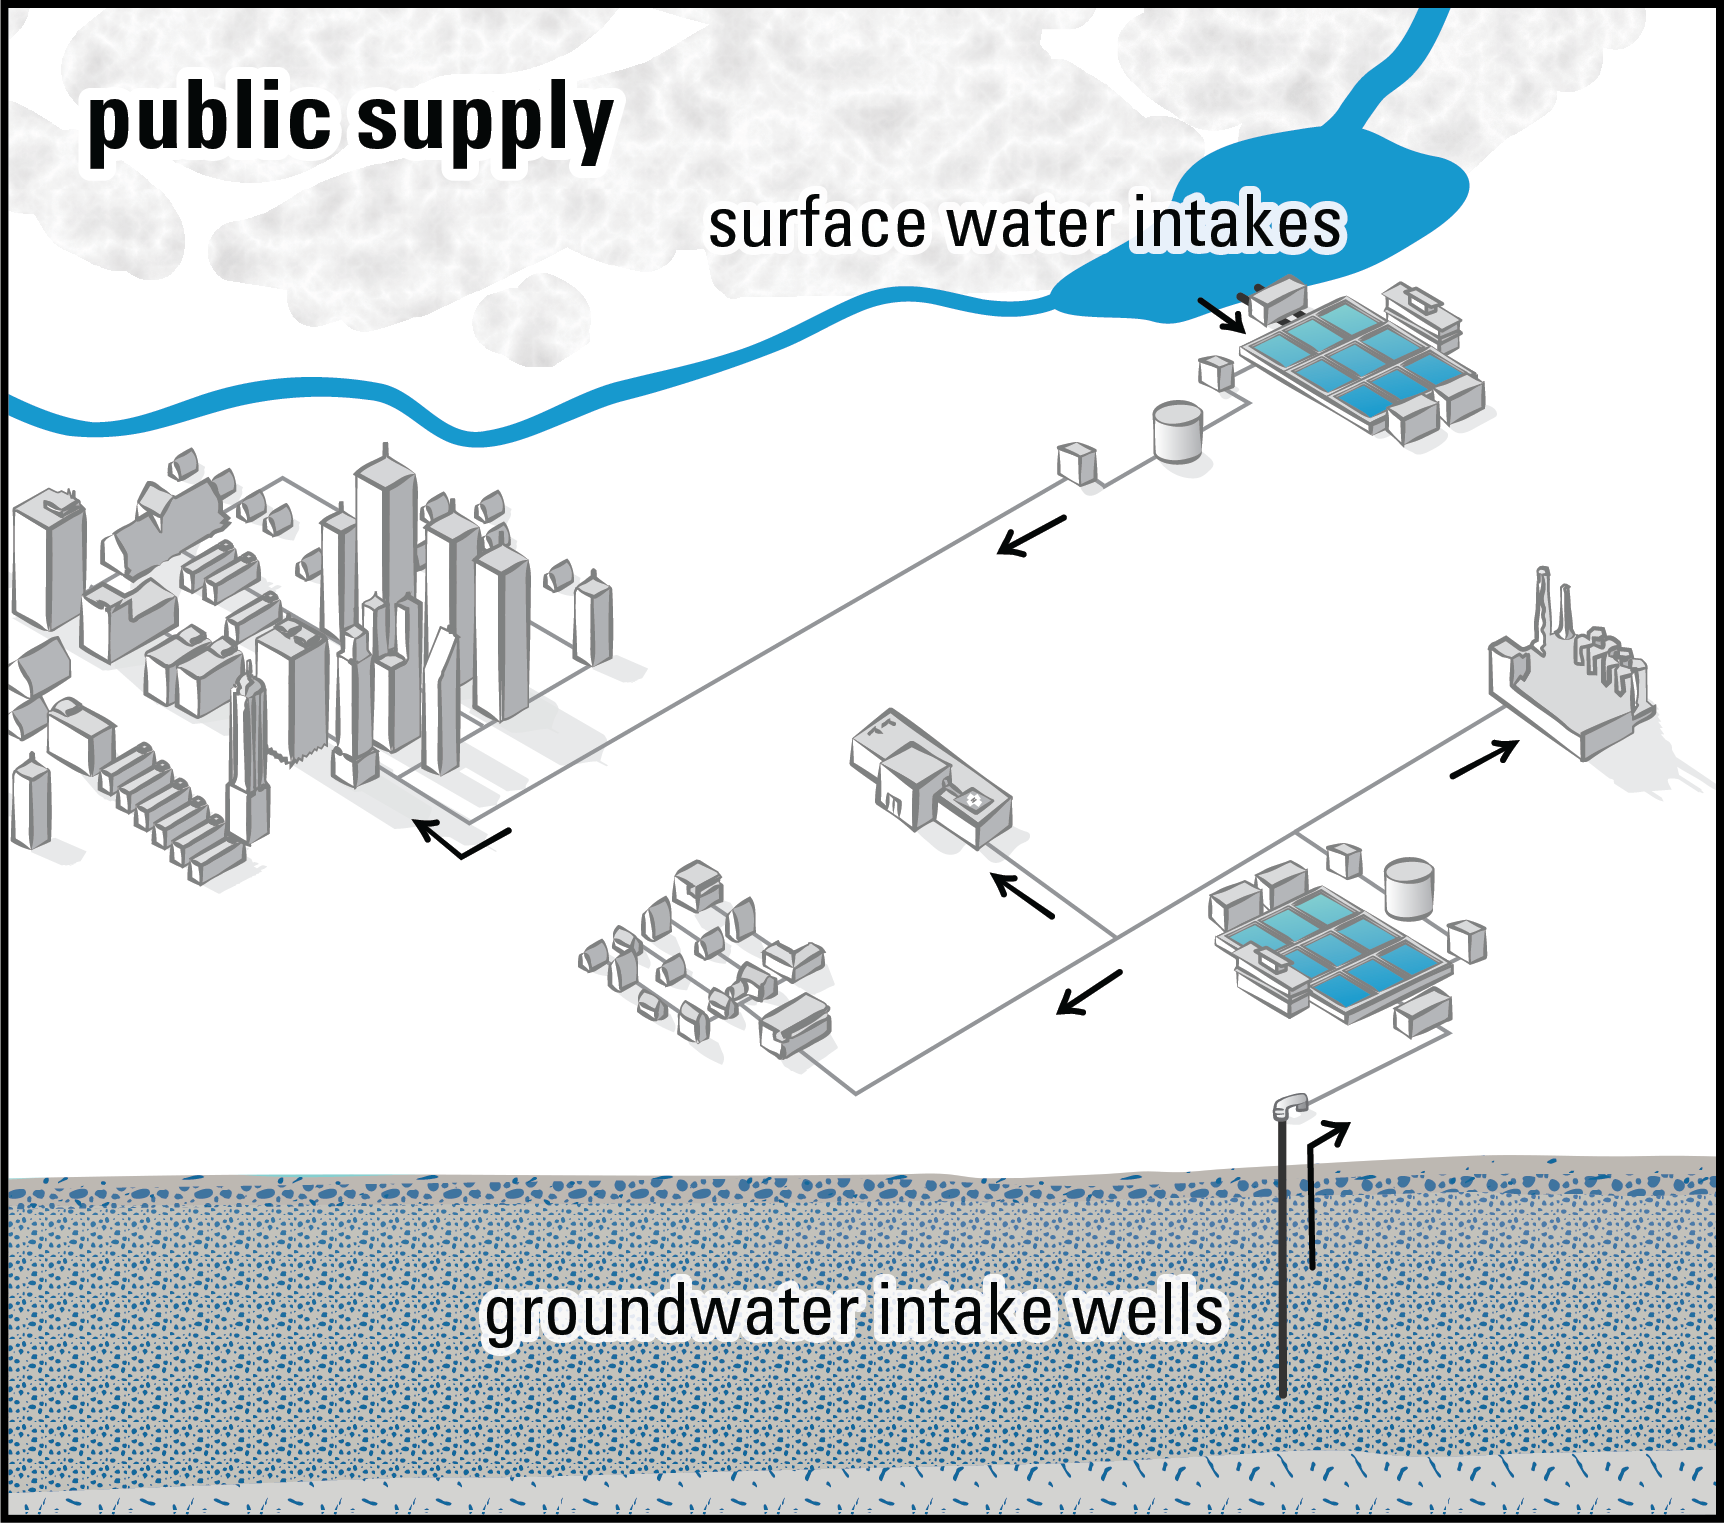
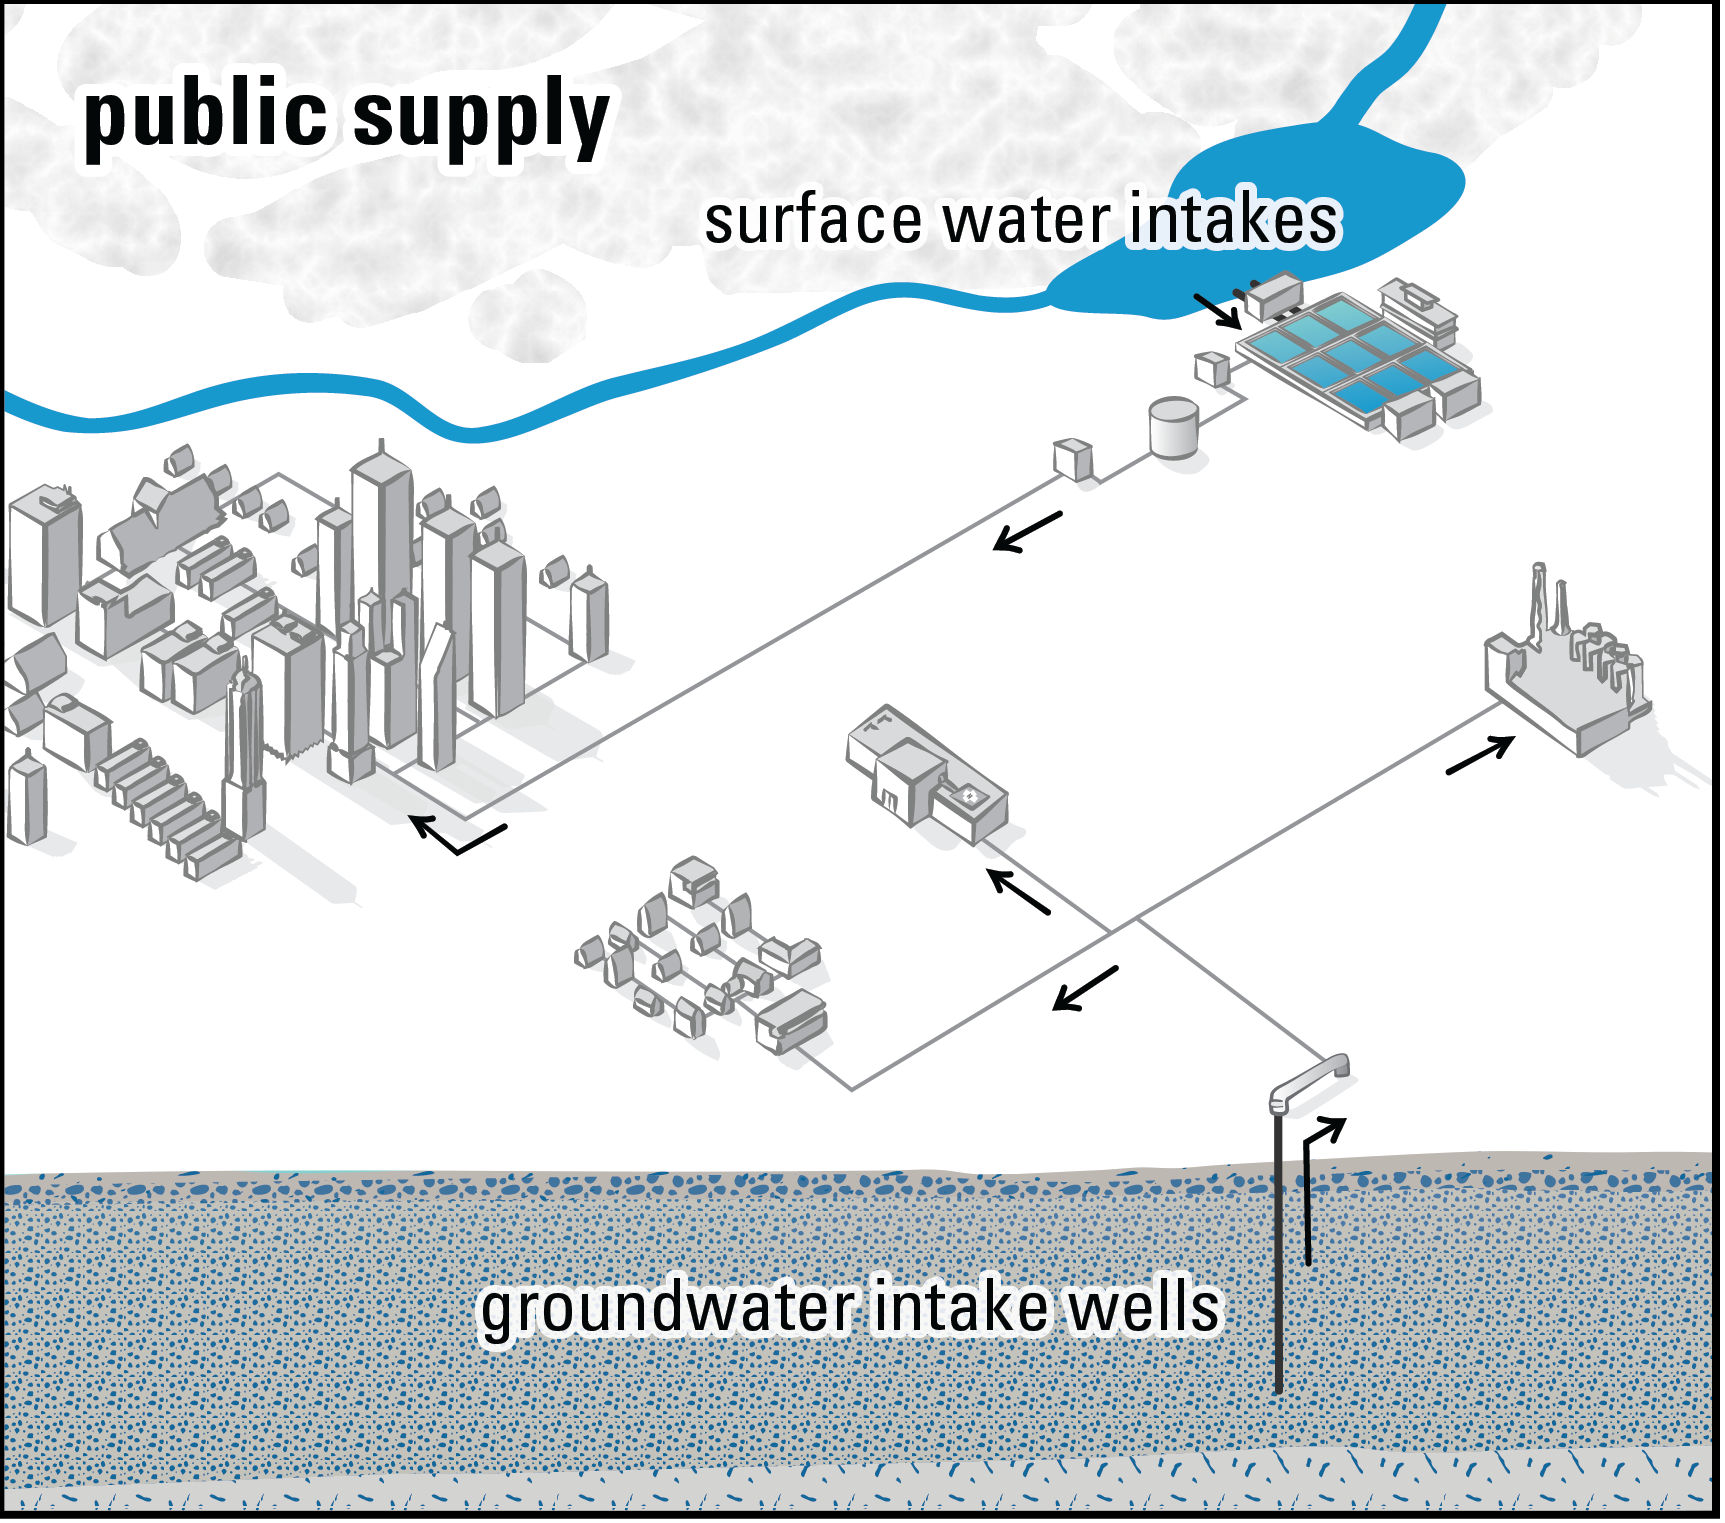
add alt text and update public- and self-supply figs

diff --git a/src/components/WaterSource.vue b/src/components/WaterSource.vue
@@ -21,6 +21,7 @@
           <img
             class="illustration"
             src="../assets/images/public-supply.png"
+            alt="Illustration showing examples of two public supply systems, one using surface water intakes and one using groundwater intake wells. The surface-water system withdraws water from a reservoir, treats it at a water treatment plant, and then distributes it to buildings throughout a city. The groundwater system withdraws groundwater using a well and distributes it to residents of a town, a hospital, and an industrial building."
           >
         </div>
         <div
@@ -30,6 +31,7 @@
           <img
             class="illustration"
             src="../assets/images/self-supply.png"
+            alt="Illustration showing examples of self-supply systems, where private users extract water from a private source. Examples include a building using water from springs; a thermoelectric power plant, industrial building, livestock pasture, and crop irrigation fields using surface water intakes; and a commercial building, residential building, livestock troughs, and crop irrigation systems using groundwater intake wells."
           >
         </div>
       </div>

diff --git a/src/components/BottledWaterFocus.vue b/src/components/BottledWaterFocus.vue
@@ -114,6 +114,7 @@
         <img
           class="infographic-bw"
           src="../assets/images/bottled_water_use_infographic.png"
+          alt="Infographic with two bar charts explaining water use data availability and sources of water for bottled water facilities. The bar chart on the left shows the percentage of all beverage-bottling facilities with available water use data that are bottled water facilities (blue) and other facilities (gray). The blue bar has an annotation that identifies that 151 bottled water facilities have available water use data. Text above the first bar chart reads, “Of facilities with available water use data, 61% are bottled water facilities…” The text continues above the bar chart on the right to say, “…and where they source their water varies.” The second bar chart identifies the percentage of facilities using each source: 13% of bottled water facilities with available water use data source their water from public supply; 39% from wells; 26% from springs; 1.3% from surface water intakes; 20% from a combination of sources; and 0.7% from other sources."
         >
       </div>
       <div

diff --git a/src/components/WaterUse.vue b/src/components/WaterUse.vue
@@ -20,6 +20,7 @@
         <img
           class="infographic-wu"
           src="../assets/images/water-use_infographic.png"
+          alt="Infographic explaining the low availability of water use data for beverage bottling facilities. A map of the conterminous United States shows the locations of bottling facilities with available water use data in blue and bottling facilities without available water use data in gray. A bar chart to the right of the map shows the percentage of facilities for which USGS was able to acquire water use data in blue, and percentage of facilities without available water use data in gray. Text at the bottom points to the bar chart and reads, “USGS acquired water use data for 0.6% of beverage bottling facilities.”"
         >
       </div>
     </div>

diff --git a/src/components/Inventory.vue b/src/components/Inventory.vue
@@ -11,6 +11,7 @@
         <img
           :class="mobileView ? 'pictogram img-mobile' : 'pictogram image-float'"
           src="../assets/images/bottled-water_consumption-pictogram_less-text_20231016.png"
+          alt="Pictogram showing 342 bottles of water with the text, “The average American drank 342 bottles of water in 2020.” Text below the pictogram reads, “Assuming standard, single-use bottles containing 16.9 oz (0.5 liter, or 0.132 gallons) of water. Bottled water consumption: https://bottledwater.org/bottled-water-consumption-shift/”"
         >
         <p v-html="inventoryText.paragraph2" />
         <br>
